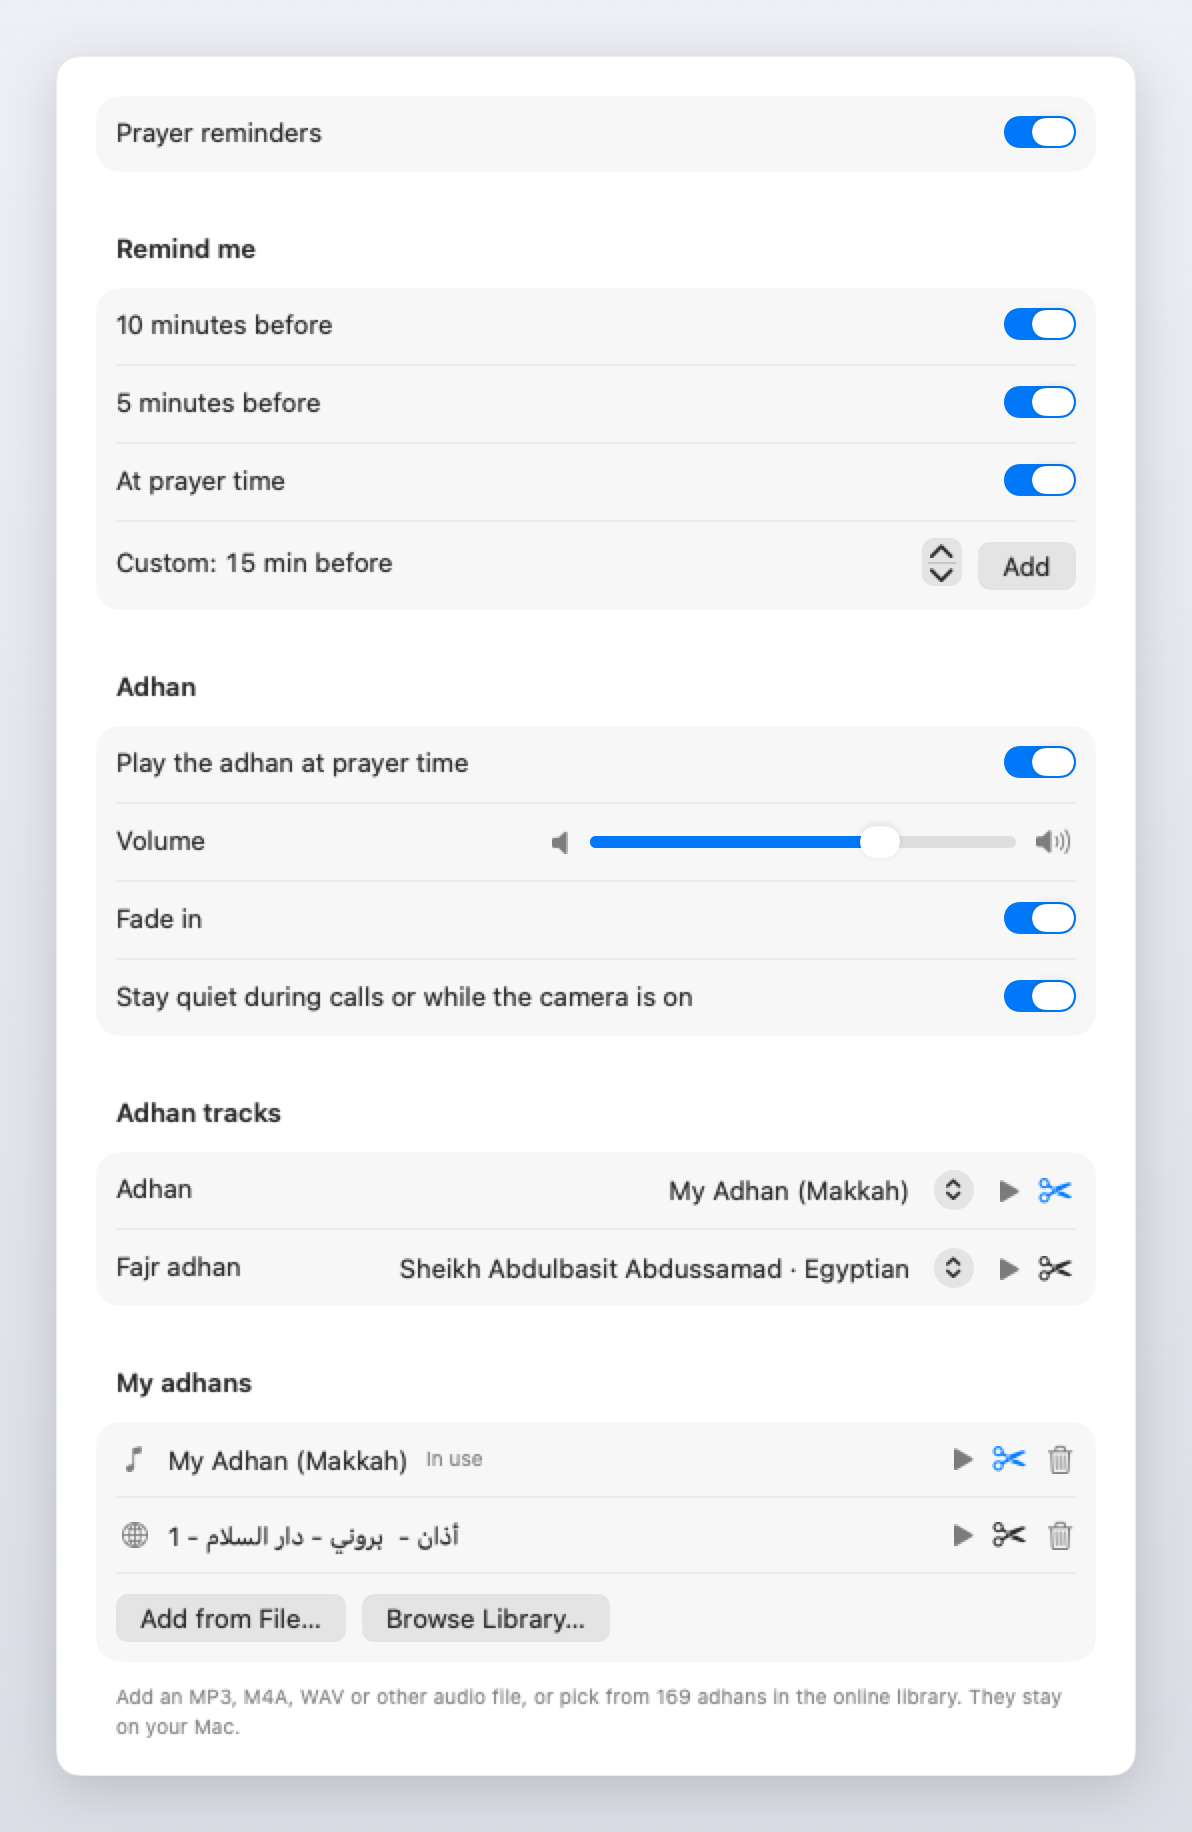
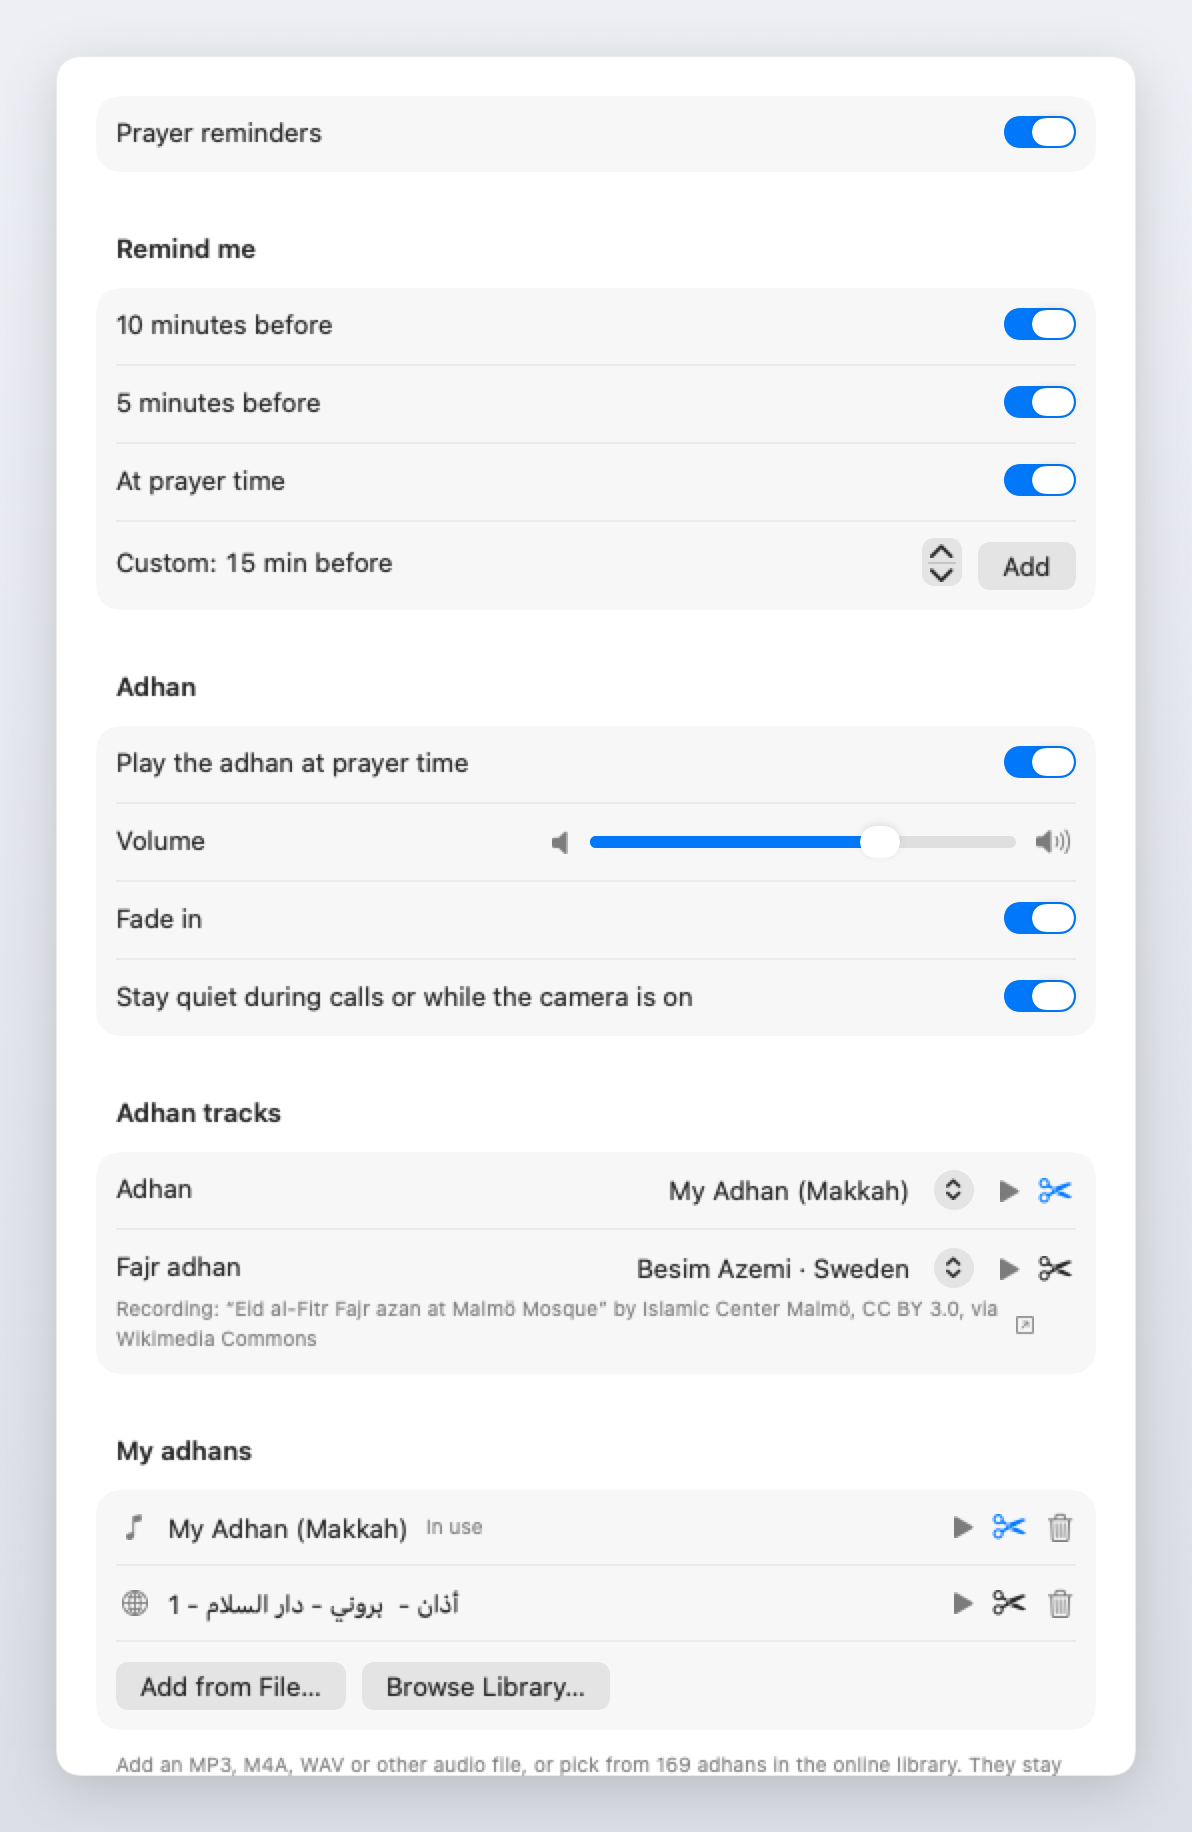
Release 2.8.1; link to Salah Bar for Windows

diff --git a/README.md b/README.md
@@ -4,6 +4,12 @@ Salah Bar is a small, free macOS app that lives in your menu bar. It shows a
 live countdown to the next prayer, plays the adhan when the prayer time comes,
 and lets you listen to the Quran from 242 reciters.
 
+> [!TIP]
+> 🪟 **On Windows?** Get **[Salah Bar for Windows](https://github.com/be-liever95/salah-bar-windows-releases/releases/latest)**: the same countdown,
+> adhan, reminders, Quran player and widgets, in the Windows notification area (Windows 11).
+> Direct downloads: [most PCs (x64)](https://github.com/be-liever95/salah-bar-windows-releases/releases/latest/download/SalahBar.Windows-win-x64-Setup.exe) ·
+> [Windows on Arm](https://github.com/be-liever95/salah-bar-windows-releases/releases/latest/download/SalahBar.Windows-win-arm64-Setup.exe).
+
 - 🕌 **Menu bar countdown**: `Dhuhr 01:22`, with a list of today's prayers one click away
 - 🔊 **Adhan** at prayer time, with volume, fade-in and a separate Fajr adhan
 - 🎙 **Your own adhan**: add any audio file, or pick from **169 adhans** in the online library
@@ -111,7 +117,7 @@ Updates…**. Updates install **without** any security warning.
 
 ### 🇹🇷 Türkçe kurulum
 
-**macOS 14 Sonoma veya üzeri gerekir.**
+**macOS 14 Sonoma veya üzeri gerekir.** Windows kullanıyorsanız: **[Windows için Salah Bar](https://github.com/be-liever95/salah-bar-windows-releases/releases/latest)**.
 
 **1. Yol: Terminal'de tek satır (en kolayı, uyarı yok)**
 
@@ -183,7 +189,7 @@ xattr -d com.apple.quarantine ~/Downloads/Salah-Bar-*.dmg
 
 ### 🇸🇦 التثبيت بالعربية
 
-**يتطلب macOS 14 Sonoma أو أحدث.**
+**يتطلب macOS 14 Sonoma أو أحدث.** على Windows؟ نزّل **[Salah Bar لنظام Windows](https://github.com/be-liever95/salah-bar-windows-releases/releases/latest)**.
 
 **الطريقة الأولى: سطر واحد في Terminal (الأسهل، بلا تحذيرات)**
 
@@ -349,7 +355,7 @@ Large widget says **It's prayer time** with that prayer and the ayah
 In **Settings → Notifications** pick the adhan for the five prayers and,
 optionally, a different one for Fajr. Press ▶ to hear it.
 
-- **Built in:** 11 adhans from Makkah, Egypt, Qatar, Morocco and more.
+- **Built in:** 17 adhans from Makkah, Madinah, Egypt, Qatar, Morocco and more, including 6 openly licensed recordings from Wikimedia Commons and Freesound (credited under the picker and in [THIRD_PARTY_NOTICES.md](THIRD_PARTY_NOTICES.md)).
 - **Your own recording:** under **My adhans**, choose **Add from File…** and pick
   any MP3, M4A, WAV or other audio file. Name it, then use it for the adhan or
   for Fajr. Salah Bar keeps its own copy, so moving or deleting the original is fine.

diff --git a/THIRD_PARTY_NOTICES.md b/THIRD_PARTY_NOTICES.md
@@ -39,8 +39,28 @@ material or use any link on the websites". The recordings belong to their
 reciters and producers and are not covered by Salah Bar's license.
 
 ## Adhan recordings
-The adhan recordings, bundled and in the online library, belong to their
-reciters and producers and are not covered by Salah Bar's license.
+These bundled recordings are used under open licences (Salah Bar trims them,
+evens out their volume and converts them; the CC BY-SA ones stay under CC BY-SA):
+
+- "Call to prayer from the Prophet's Mosque" by ejaz215, CC BY 3.0
+  (https://creativecommons.org/licenses/by/3.0/), via Wikimedia Commons:
+  https://commons.wikimedia.org/wiki/File:33937_ejaz215_call-to-prayer-from-the-prophet-s-mo.ogg
+- "AZAAN in Makkah" by Seyfula Islam, CC BY 3.0, via Wikimedia Commons:
+  https://commons.wikimedia.org/wiki/File:Adhan,_Great_Mosque_of_Mecca_-_Jan_21,_2013.webm
+- "Eid al-Fitr Fajr azan at Malmö Mosque" (muezzin Besim Azemi) by Islamic
+  Center Malmö, CC BY 3.0, via Wikimedia Commons:
+  https://commons.wikimedia.org/wiki/File:Eid_al-Fitr_Fajr_azan_at_Malmö_Mosque_-_19_August_2012.webm
+- "Adhan in Shalqar mosque" by Esetok, CC BY-SA 4.0
+  (https://creativecommons.org/licenses/by-sa/4.0/), via Wikimedia Commons:
+  https://commons.wikimedia.org/wiki/File:Adhan_in_Shalqar_mosque.webm
+- "Islamic Call to Prayer (Dhuhr Adhan Audiophile Field Recording from
+  Hamtramck, MI)" by RJStefanski, CC BY 3.0, via Freesound:
+  https://freesound.org/people/RJStefanski/sounds/255231/
+- "adzan-forest" by bagustris (Bagus Tris Atmaja), CC0, via Freesound:
+  https://freesound.org/people/bagustris/sounds/508441/
+
+The other adhan recordings, bundled and in the online library, belong to
+their reciters and producers and are not covered by Salah Bar's license.
 
 ## Official prayer-time data
 Salah Bar's accuracy-test data comes from
